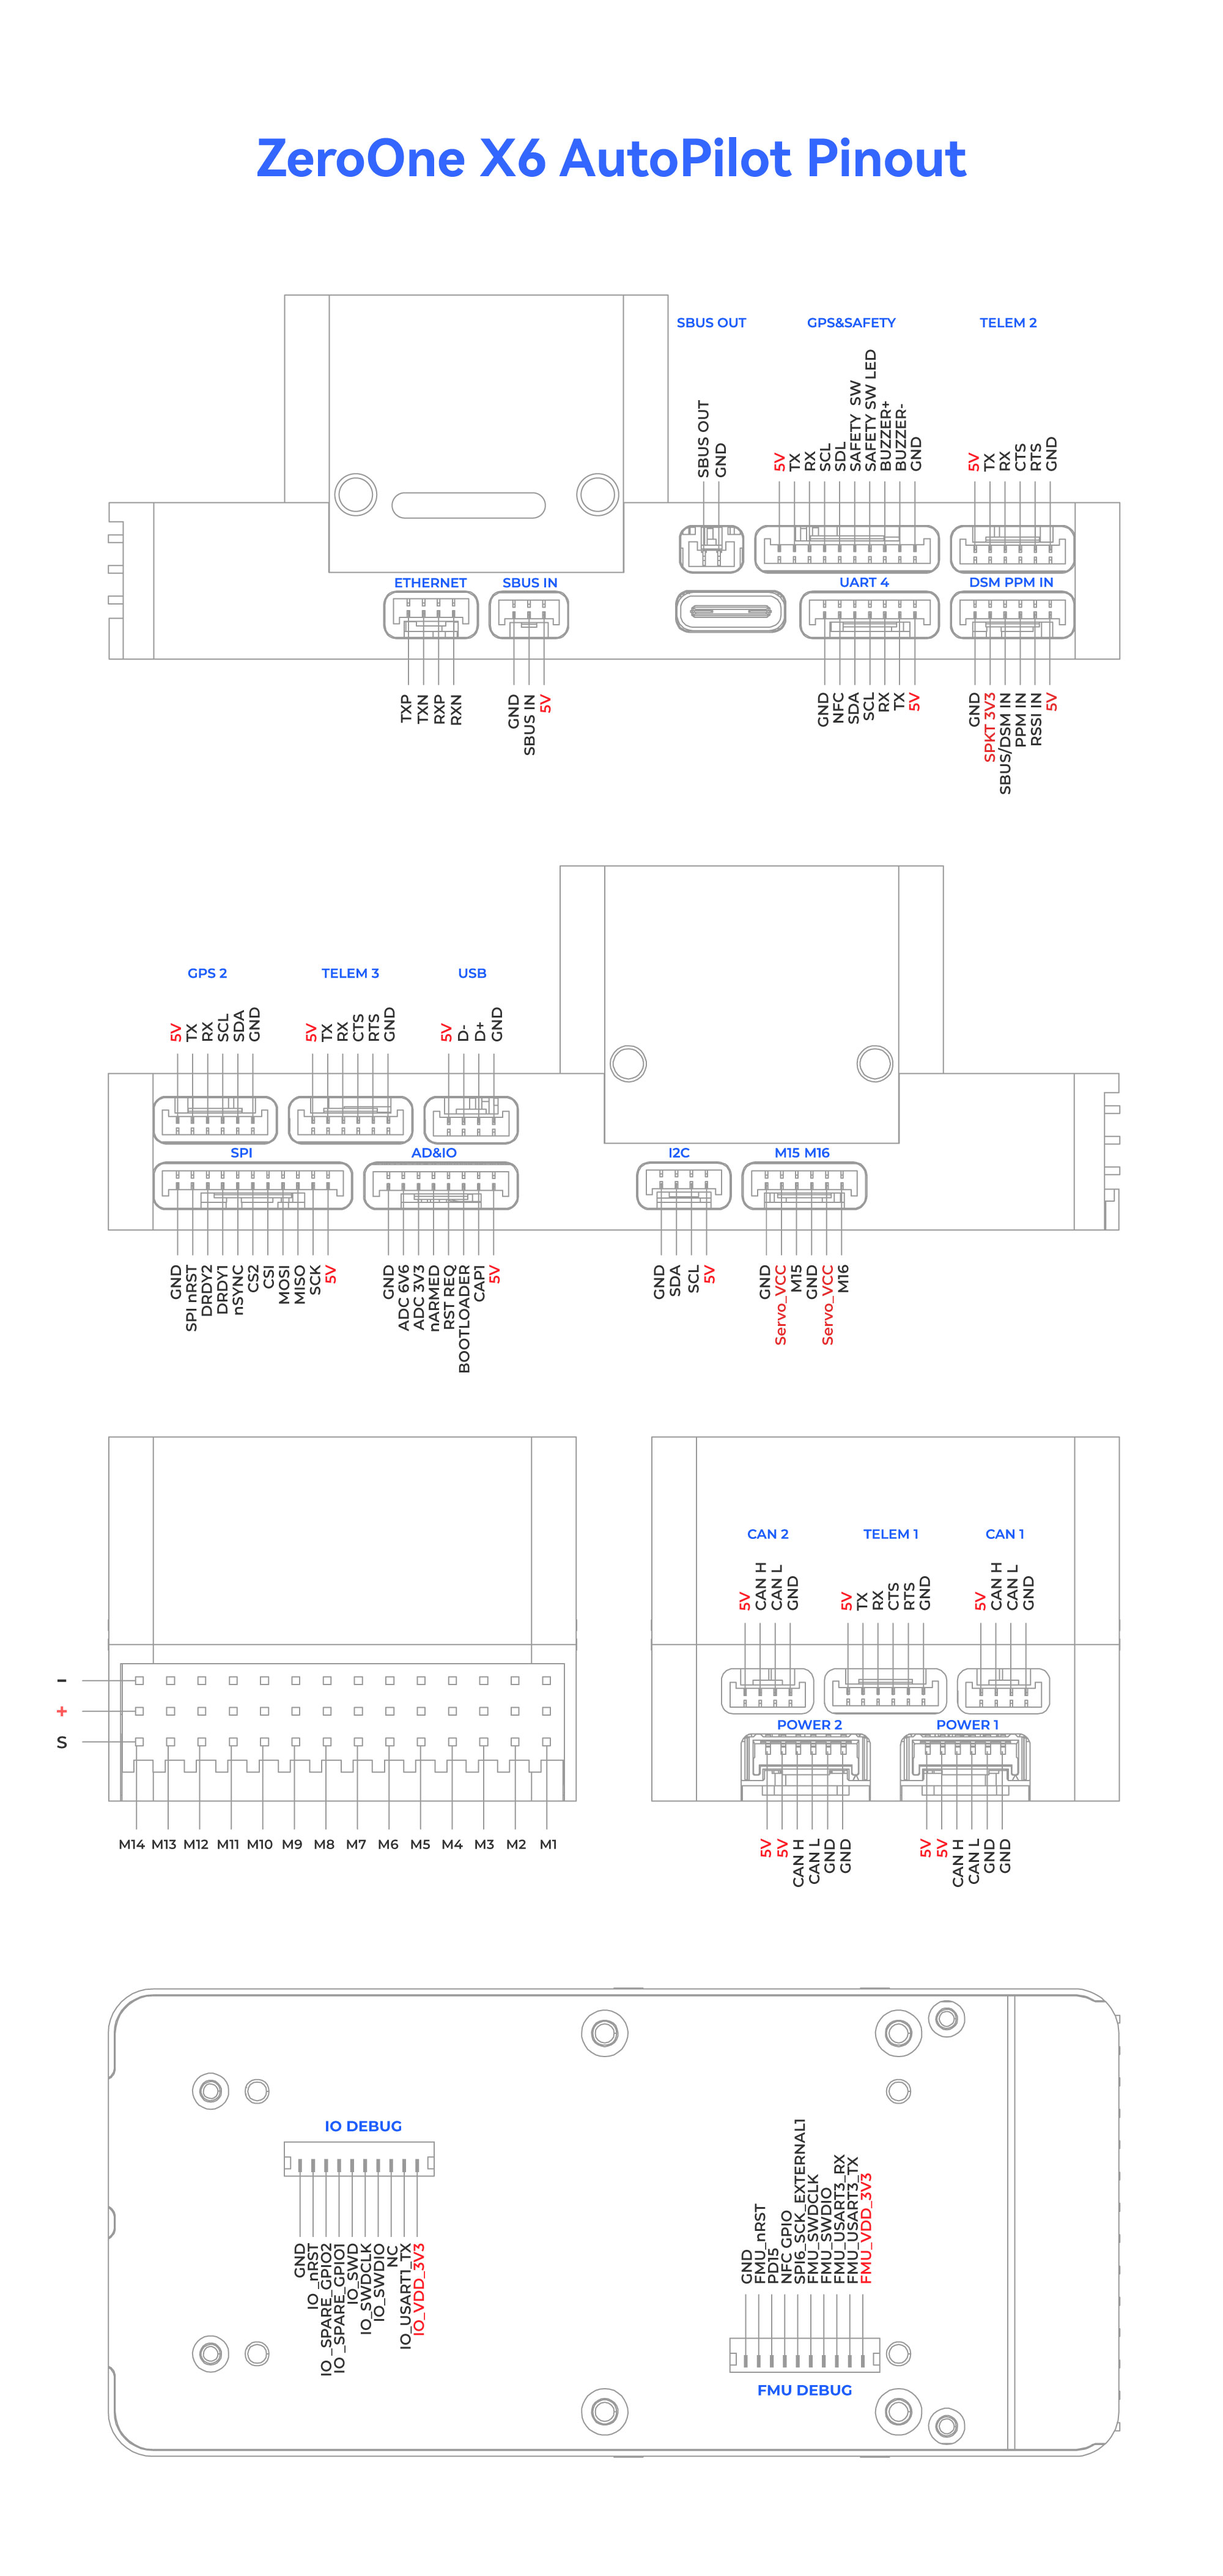
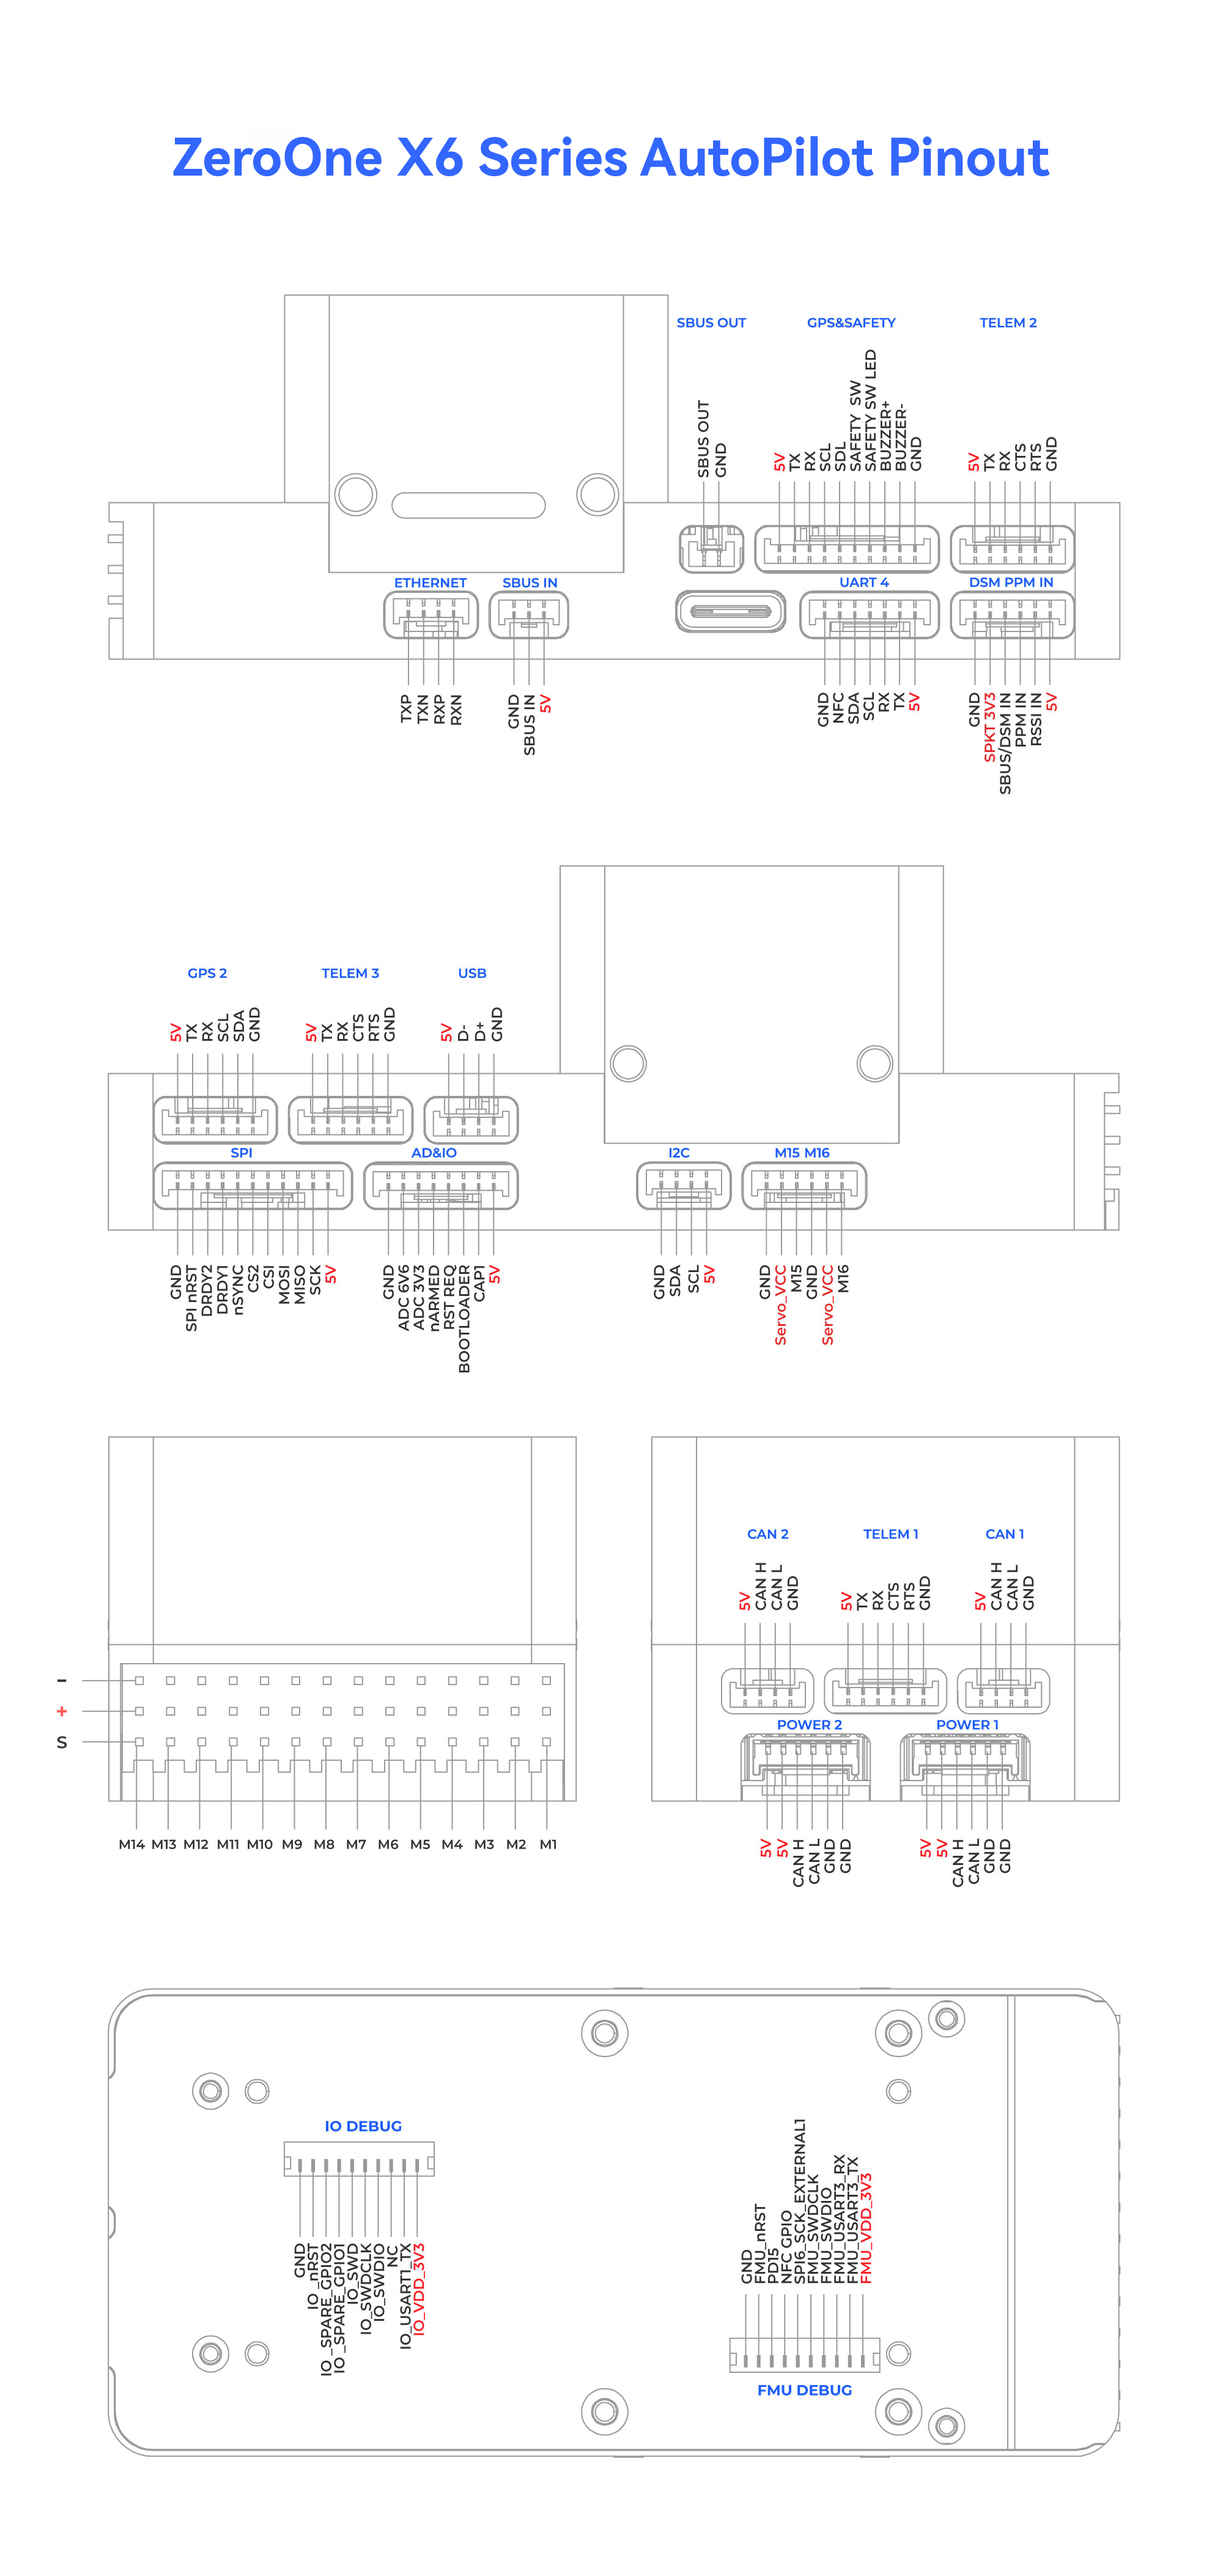
hwdef: Added support for X6_Pro flight controller

Changed region(s): [[0.403, 0.0311, 0.682, 0.0933], [0.155, 0.0311, 0.372, 0.0933], [0.713, 0.0311, 0.837, 0.0933]]

diff --git a/libraries/AP_HAL_ChibiOS/hwdef/ZeroOneX6/README.md b/libraries/AP_HAL_ChibiOS/hwdef/ZeroOneX6/README.md
@@ -1,6 +1,6 @@
 ## ZeroOneX6 Flight Controller
-The ZeroOne X6 is a flight controller manufactured by ZeroOne, which is based on the open-source FMU v6X architecture and Pixhawk Autopilot Bus open source specifications.
-![Uploading ZeroOneX6.jpg…](https://github.com/ZeroOne-Aero/ardupilot/blob/pr-ZeroOneX6-250103/libraries/AP_HAL_ChibiOS/hwdef/ZeroOneX6/ZeroOneX6.jpg?raw=true)
+The ZeroOne X6 is a series of flight controllers manufactured by ZeroOne, which is based on the open-source FMU v6X architecture and Pixhawk Autopilot Bus open source specifications.
+![Uploading X6_and_X6Pro.jpg…](https://github.com/ZeroOne-Aero/ardupilot/blob/pr-ZeroOneX6_Pro-250526/libraries/AP_HAL_ChibiOS/hwdef/ZeroOneX6/X6_and_X6Pro.jpg?raw=true)
 
 
 ## Features:
@@ -12,19 +12,26 @@ The ZeroOne X6 is a flight controller manufactured by ZeroOne, which is based on
 - IO MCU
    STM32F103
 - Sensors
-- IMU: 
-   Internal Vibration Isolation for IMUs  
-   IMU constant temperature heating(1 W heating power).  
-   With Triple Synced IMUs, BalancedGyro technology, low noise and more shock-resistant:  
-   IMU1-ICM45686(With vibration isolation)  
-   IMU2-BMI088(With vibration isolation)  
-   IMU3- ICM45686(No vibration isolation) 
-- Baro:
-   Two barometers:2 x ICP20100  
-   Magnetometer:   Builtin RM3100 magnetometer
+    - IMU:   
+       Internal Vibration Isolation for IMUs  
+       IMU constant temperature heating(2W heating power).  
+       With Triple Synced IMUs, BalancedGyro technology, low noise and more shock-resistant:
+      - **X6**:  
+       IMU1-ICM45686(With vibration isolation)  
+       IMU2-BMI088(With vibration isolation)  
+       IMU3-ICM45686(No vibration isolation)
+      - **X6 Pro**：  
+       IMU1-IIM42653(With vibration isolation)  
+       IMU2-BMI088(With vibration isolation)  
+       IMU3-IIM42653(No vibration isolation) 
+    - Baro:  
+       Two barometers:  2 x ICP20100    
+    - Magnetometer:   
+       Builtin RM3100 magnetometer
+
 
 ## Pinout
-![ZeroOneX6 Pinout](https://github.com/ZeroOne-Aero/ardupilot/blob/pr-ZeroOneX6-250103/libraries/AP_HAL_ChibiOS/hwdef/ZeroOneX6/ZeroOneX6Pinout.jpg "ZeroOneX6")
+![ZeroOneX6 Pinout](https://github.com/ZeroOne-Aero/ardupilot/blob/pr-ZeroOneX6_Pro-250526/libraries/AP_HAL_ChibiOS/hwdef/ZeroOneX6/ZeroOneX6Pinout.jpg "ZeroOneX6")
 
 
 ## UART Mapping
@@ -42,7 +49,13 @@ The UARTs are marked Rn and Tn in the above pinouts. The Rn pin is the receive p
 | SERIAL8 | OTG-SLCAN| USB      |
 
 ## RC Input
-The remote control signal should be connected to the SBUS RC IN port or DSM/PPM RC Port.It will support ALL unidirectional RC protocols.
+The SBUS pin, can be used for all ArduPilot supported receiver protocols, except CRSF/ELRS and SRXL2 which require a true UART connection. However, FPort, when connected in this manner, will only provide RC without telemetry. 
+To allow CRSF and embedded telemetry available in Fport, CRSF, and SRXL2 receivers, a full UART, such as SERIAL6 (UART4) would need to be used for receiver connections. Below are setups using Serial6.
+- :ref:`SERIAL6_PROTOCOL<SERIAL6_PROTOCOL>` should be set to "23".
+- FPort would require :ref:`SERIAL6_OPTIONS<SERIAL6_OPTIONS>` be set to "15".
+- CRSF/ELRS would require :ref:`SERIAL6_OPTIONS<SERIAL6_OPTIONS>` be set to "0".
+- SRXL2 would require :ref:`SERIAL6_OPTIONS<SERIAL6_OPTIONS>` be set to "4" and connects only the TX pin.
+Any UART can be used for RC system connections in ArduPilot also, and is compatible with all protocols except PPM. See :ref:`common-rc-systems` for details.
 
 ## PWM Output
 The X6 flight controller supports up to 16 PWM outputs. 
@@ -79,7 +92,7 @@ All PWM outputs can be used as GPIOs (relays, camera, RPM etc). To use them you 
   <tr><td> M5 </td><td> 105 </td> <td> MainOut5 </td><td>  </td><td> M13 </td><td> 54 </td><td> AuxOut5 </td></tr>
   <tr><td> M6 </td><td> 106 </td> <td> MainOut6 </td><td>  </td><td> M14 </td><td> 55 </td><td> AuxOut6 </td></tr>
   <tr><td> M7 </td><td> 107 </td> <td> MainOut7 </td><td>  </td><td> M15 </td><td> 56 </td><td>  </td></tr>
-  <tr><td> M8 </td><td> 108 </td> <td> MainOut8 </td><td>  </td><td> M16 </td><td> 57 </td><td> BB Blue GPo pin 3 </td></tr>
+  <tr><td> M8 </td><td> 108 </td> <td> MainOut8 </td><td>  </td><td> M16 </td><td> 57 </td><td> BB Blue GPIo pin 3 </td></tr>
   <tr><td>  </td><td>  </td> <td>  </td><td>  </td><td> FCU CAP </td><td> 58 </td><td>  </td></tr>
 </table>
 
@@ -98,6 +111,13 @@ The X6 flight controller has 2 analog inputs.
 
 ## 5V PWM Voltage 
 The X6 flight controller supports switching between 5V and 3.3V PWM levels. Switch PWM output pulse level by configuring parameter BRD_PWM_VOL_SEL. 0 for 3.3V and 1 for 5V output. 
+
+Loading Firmware
+================
+The board comes pre-installed with an ArduPilot compatible bootloader,
+allowing the loading of xxxxxx.apj firmware files with any ArduPilot
+compatible ground station.
+Firmware for these boards can be found `here <https://firmware.ardupilot.org>`_ in  sub-folders labeled "ZeroOneX6".
 
 ## Where to Buy
 https://www.01aero.cn
